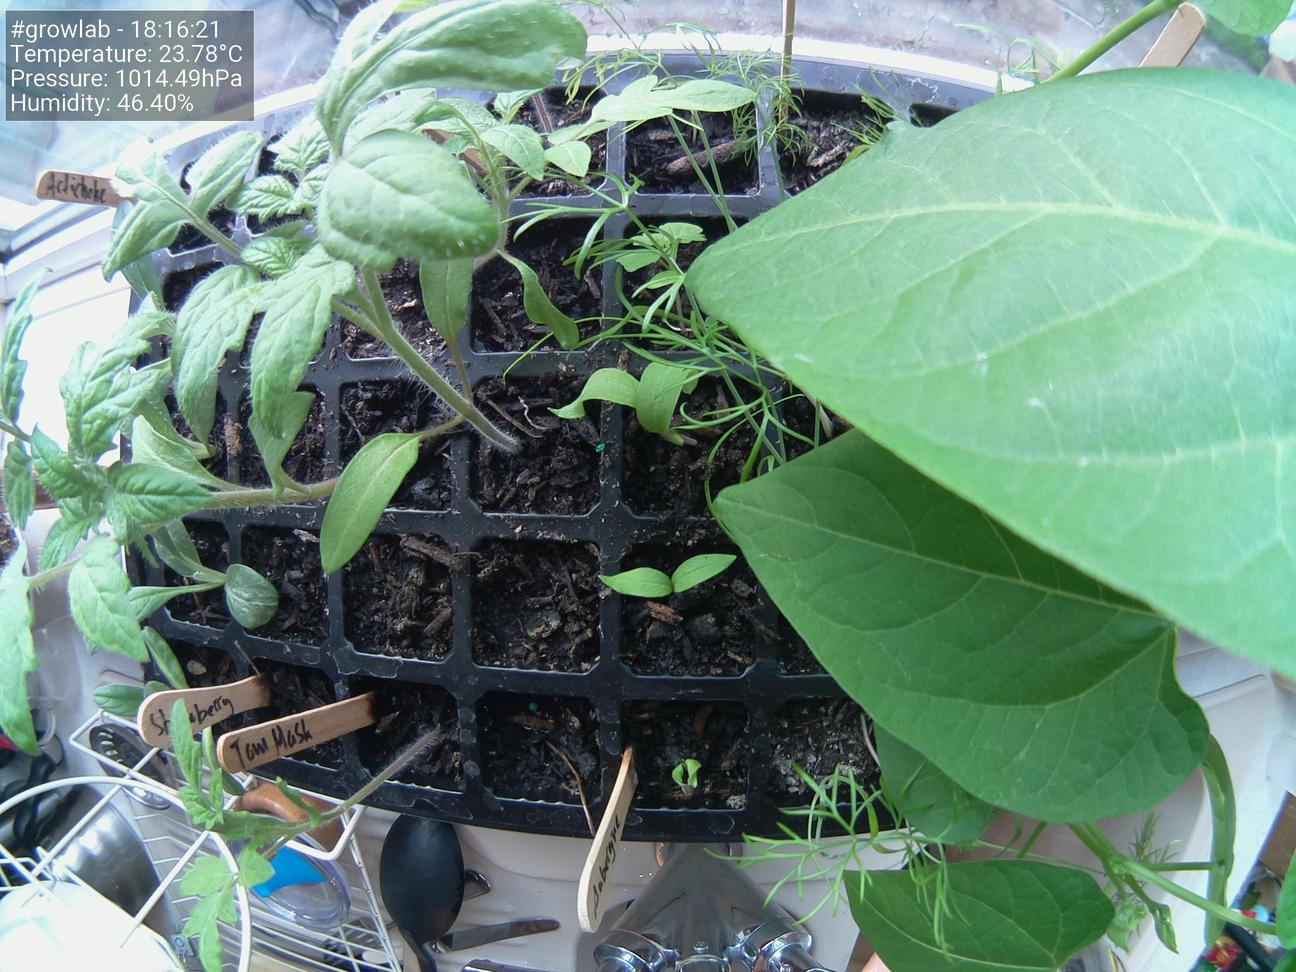
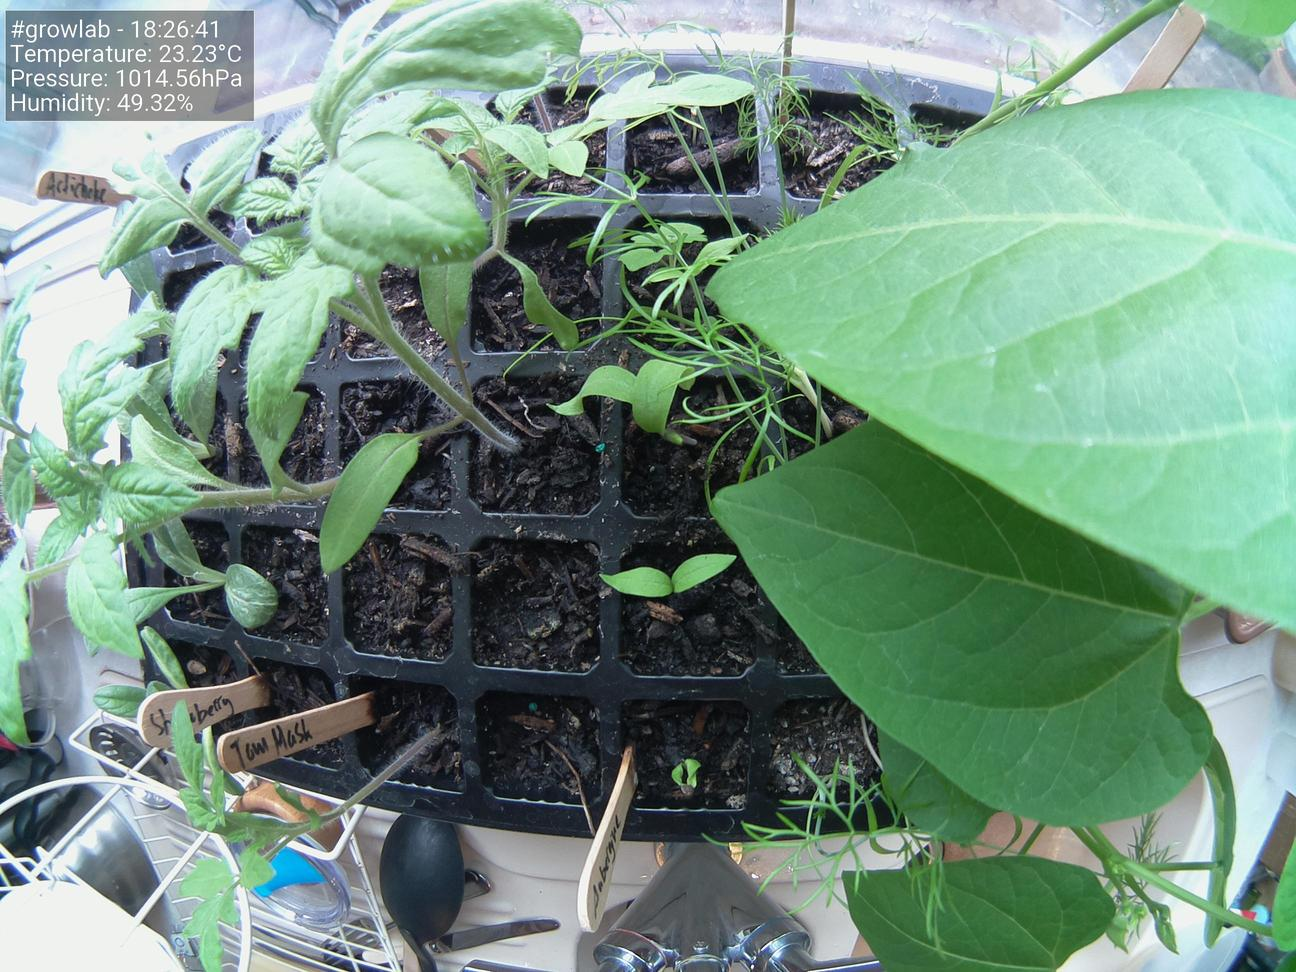
Update images at Fri 30 Apr 18:26:52 BST 2021

diff --git a/docs/index.html b/docs/index.html
@@ -38,19 +38,19 @@
                     <tbody>
                         <tr>
                             <td>Time</td>
-                            <td>18:16:21</td>
+                            <td>18:26:41</td>
                         </tr>
                         <tr>
                             <td>Temperature</td>
-                            <td>23.78°C</td>
+                            <td>23.23°C</td>
                         </tr>
                         <tr>
                             <td>Humidity</td>
-                            <td>46.40%</td>
+                            <td>49.32%</td>
                         </tr>
                         <tr>
                             <td>Pressure</td>
-                            <td>1014.49hPa</td>
+                            <td>1014.56hPa</td>
                         </tr>
                     </tbody>
                 </table>
@@ -58,7 +58,7 @@
 
                 <h5>Latest image</h5>
 		<div style="width: 85%;">
-	                <img class="figure-img img-fluid rounded" src="./preview.jpg?uid=1619802992.787195">
+	                <img class="figure-img img-fluid rounded" src="./preview.jpg?uid=1619803612.2973535">
 		</div>
             </div>
         </div>
